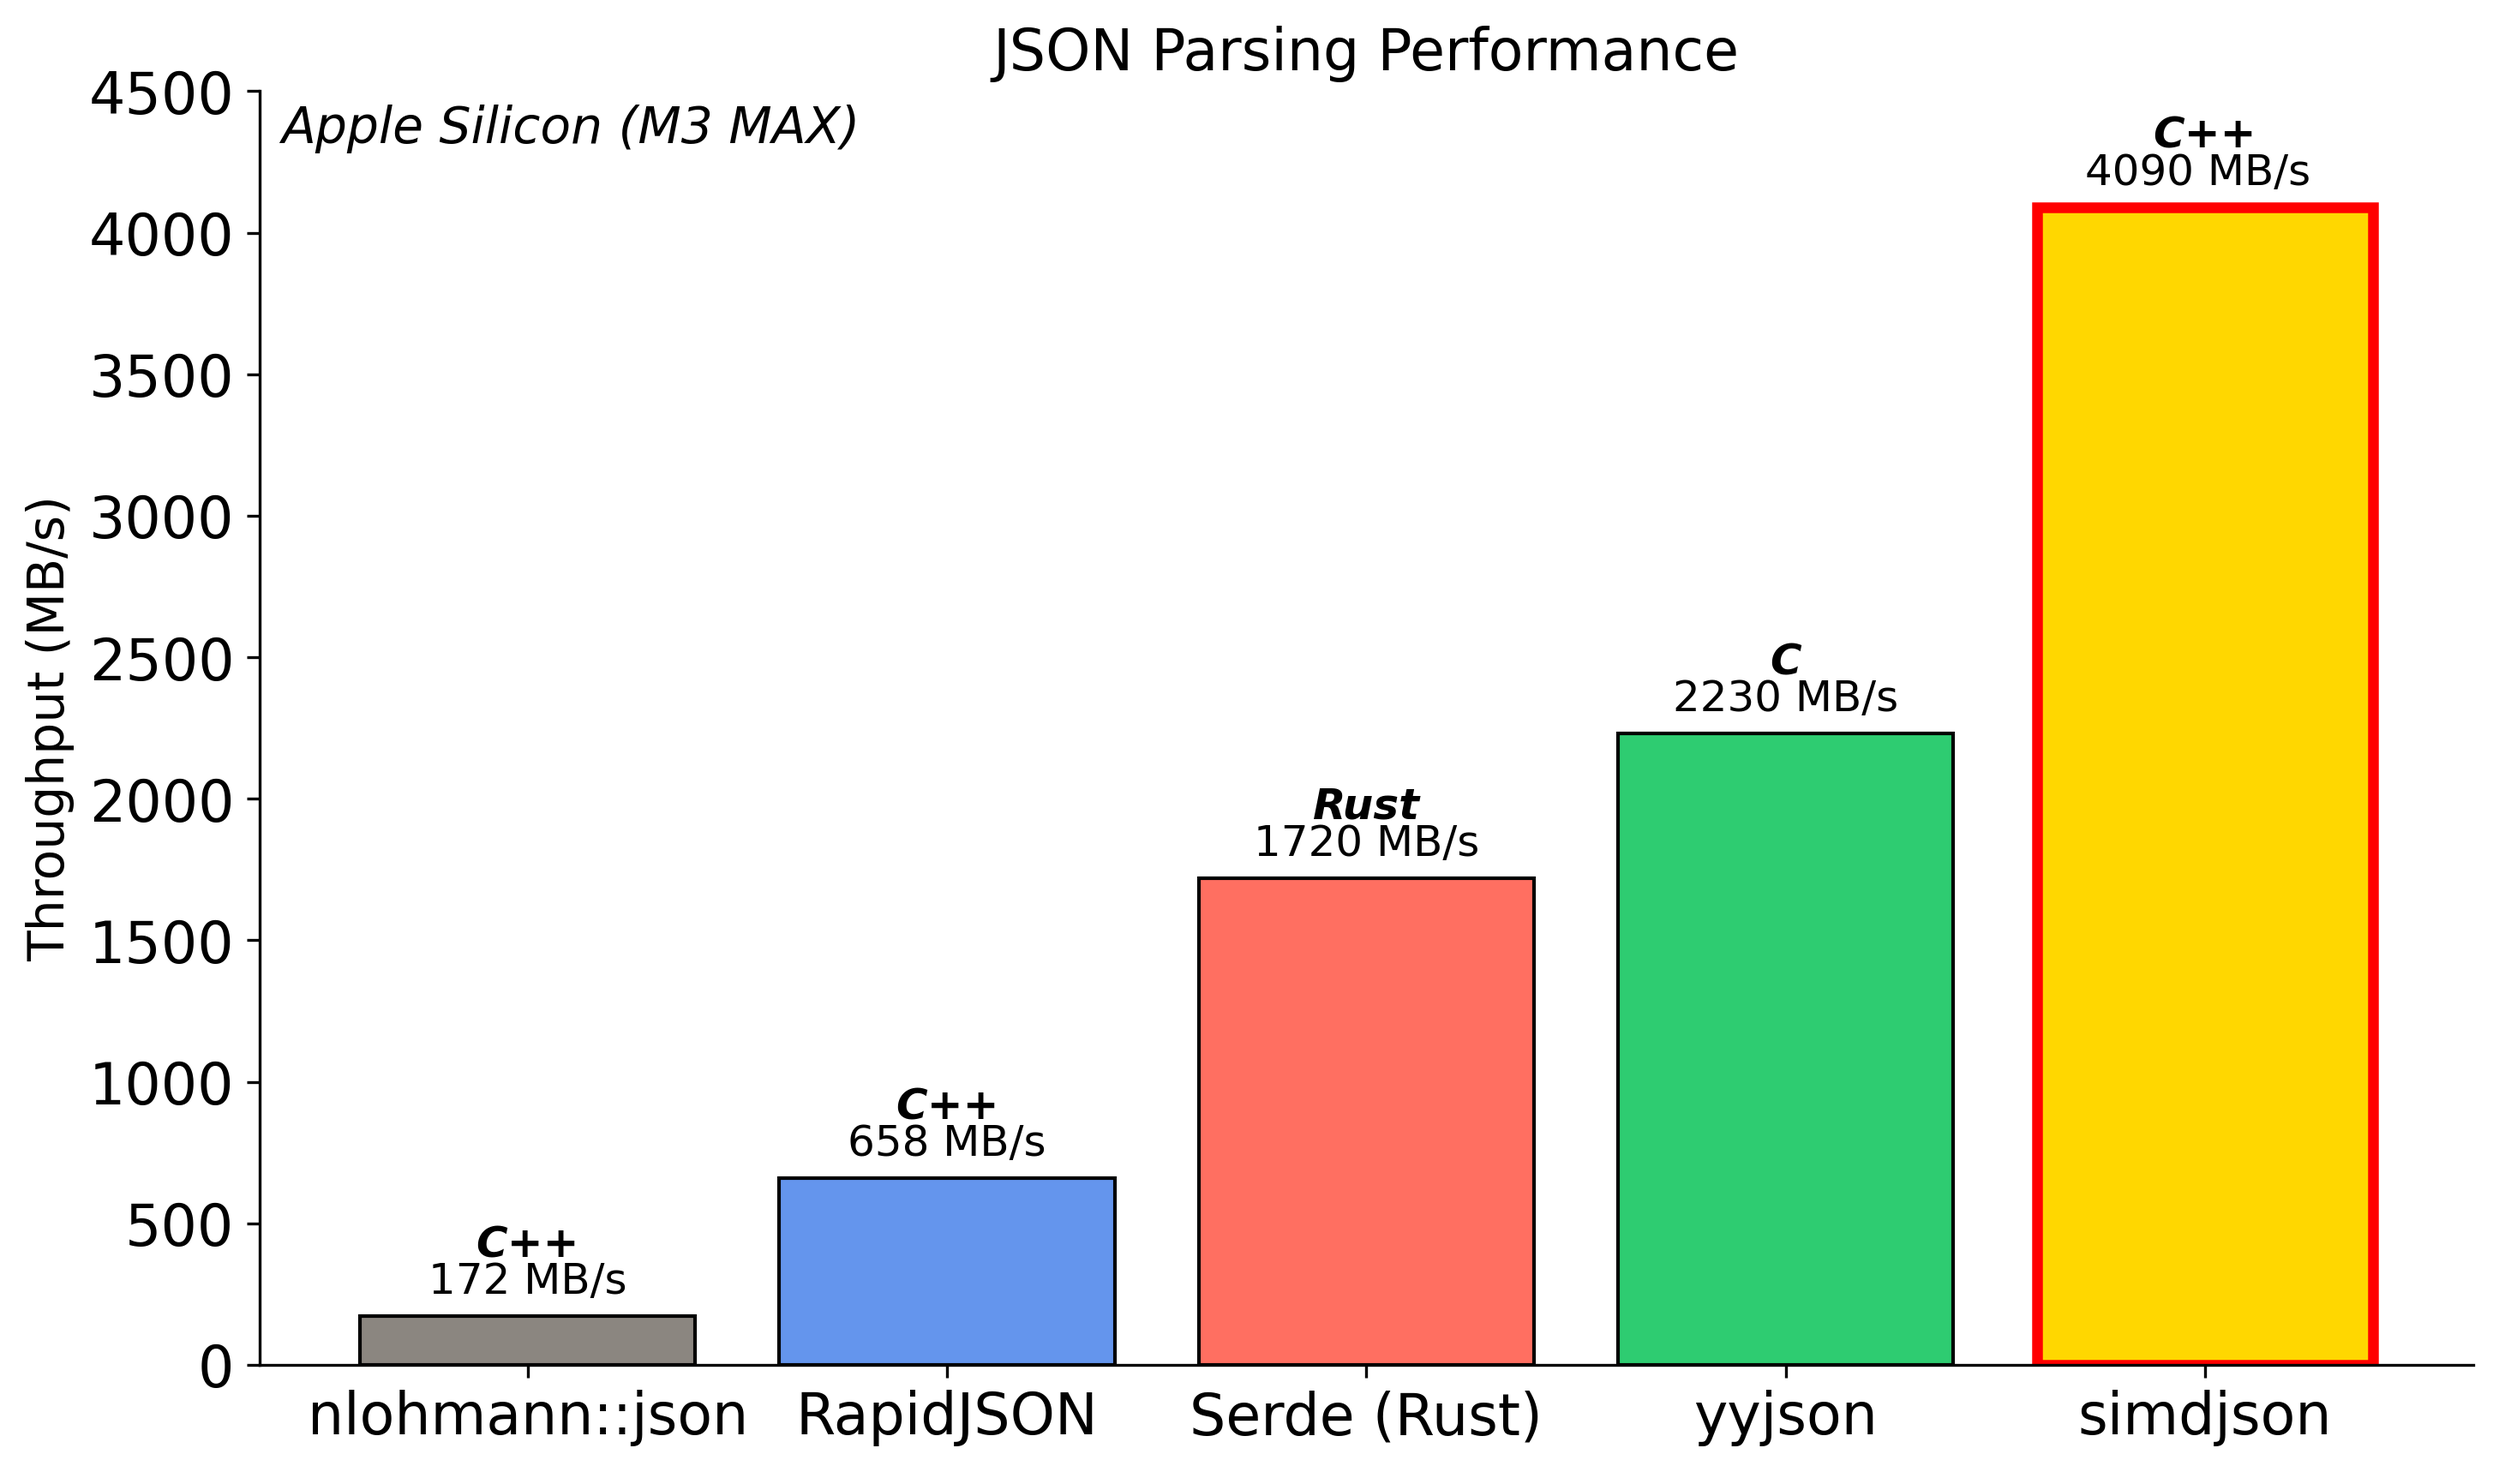
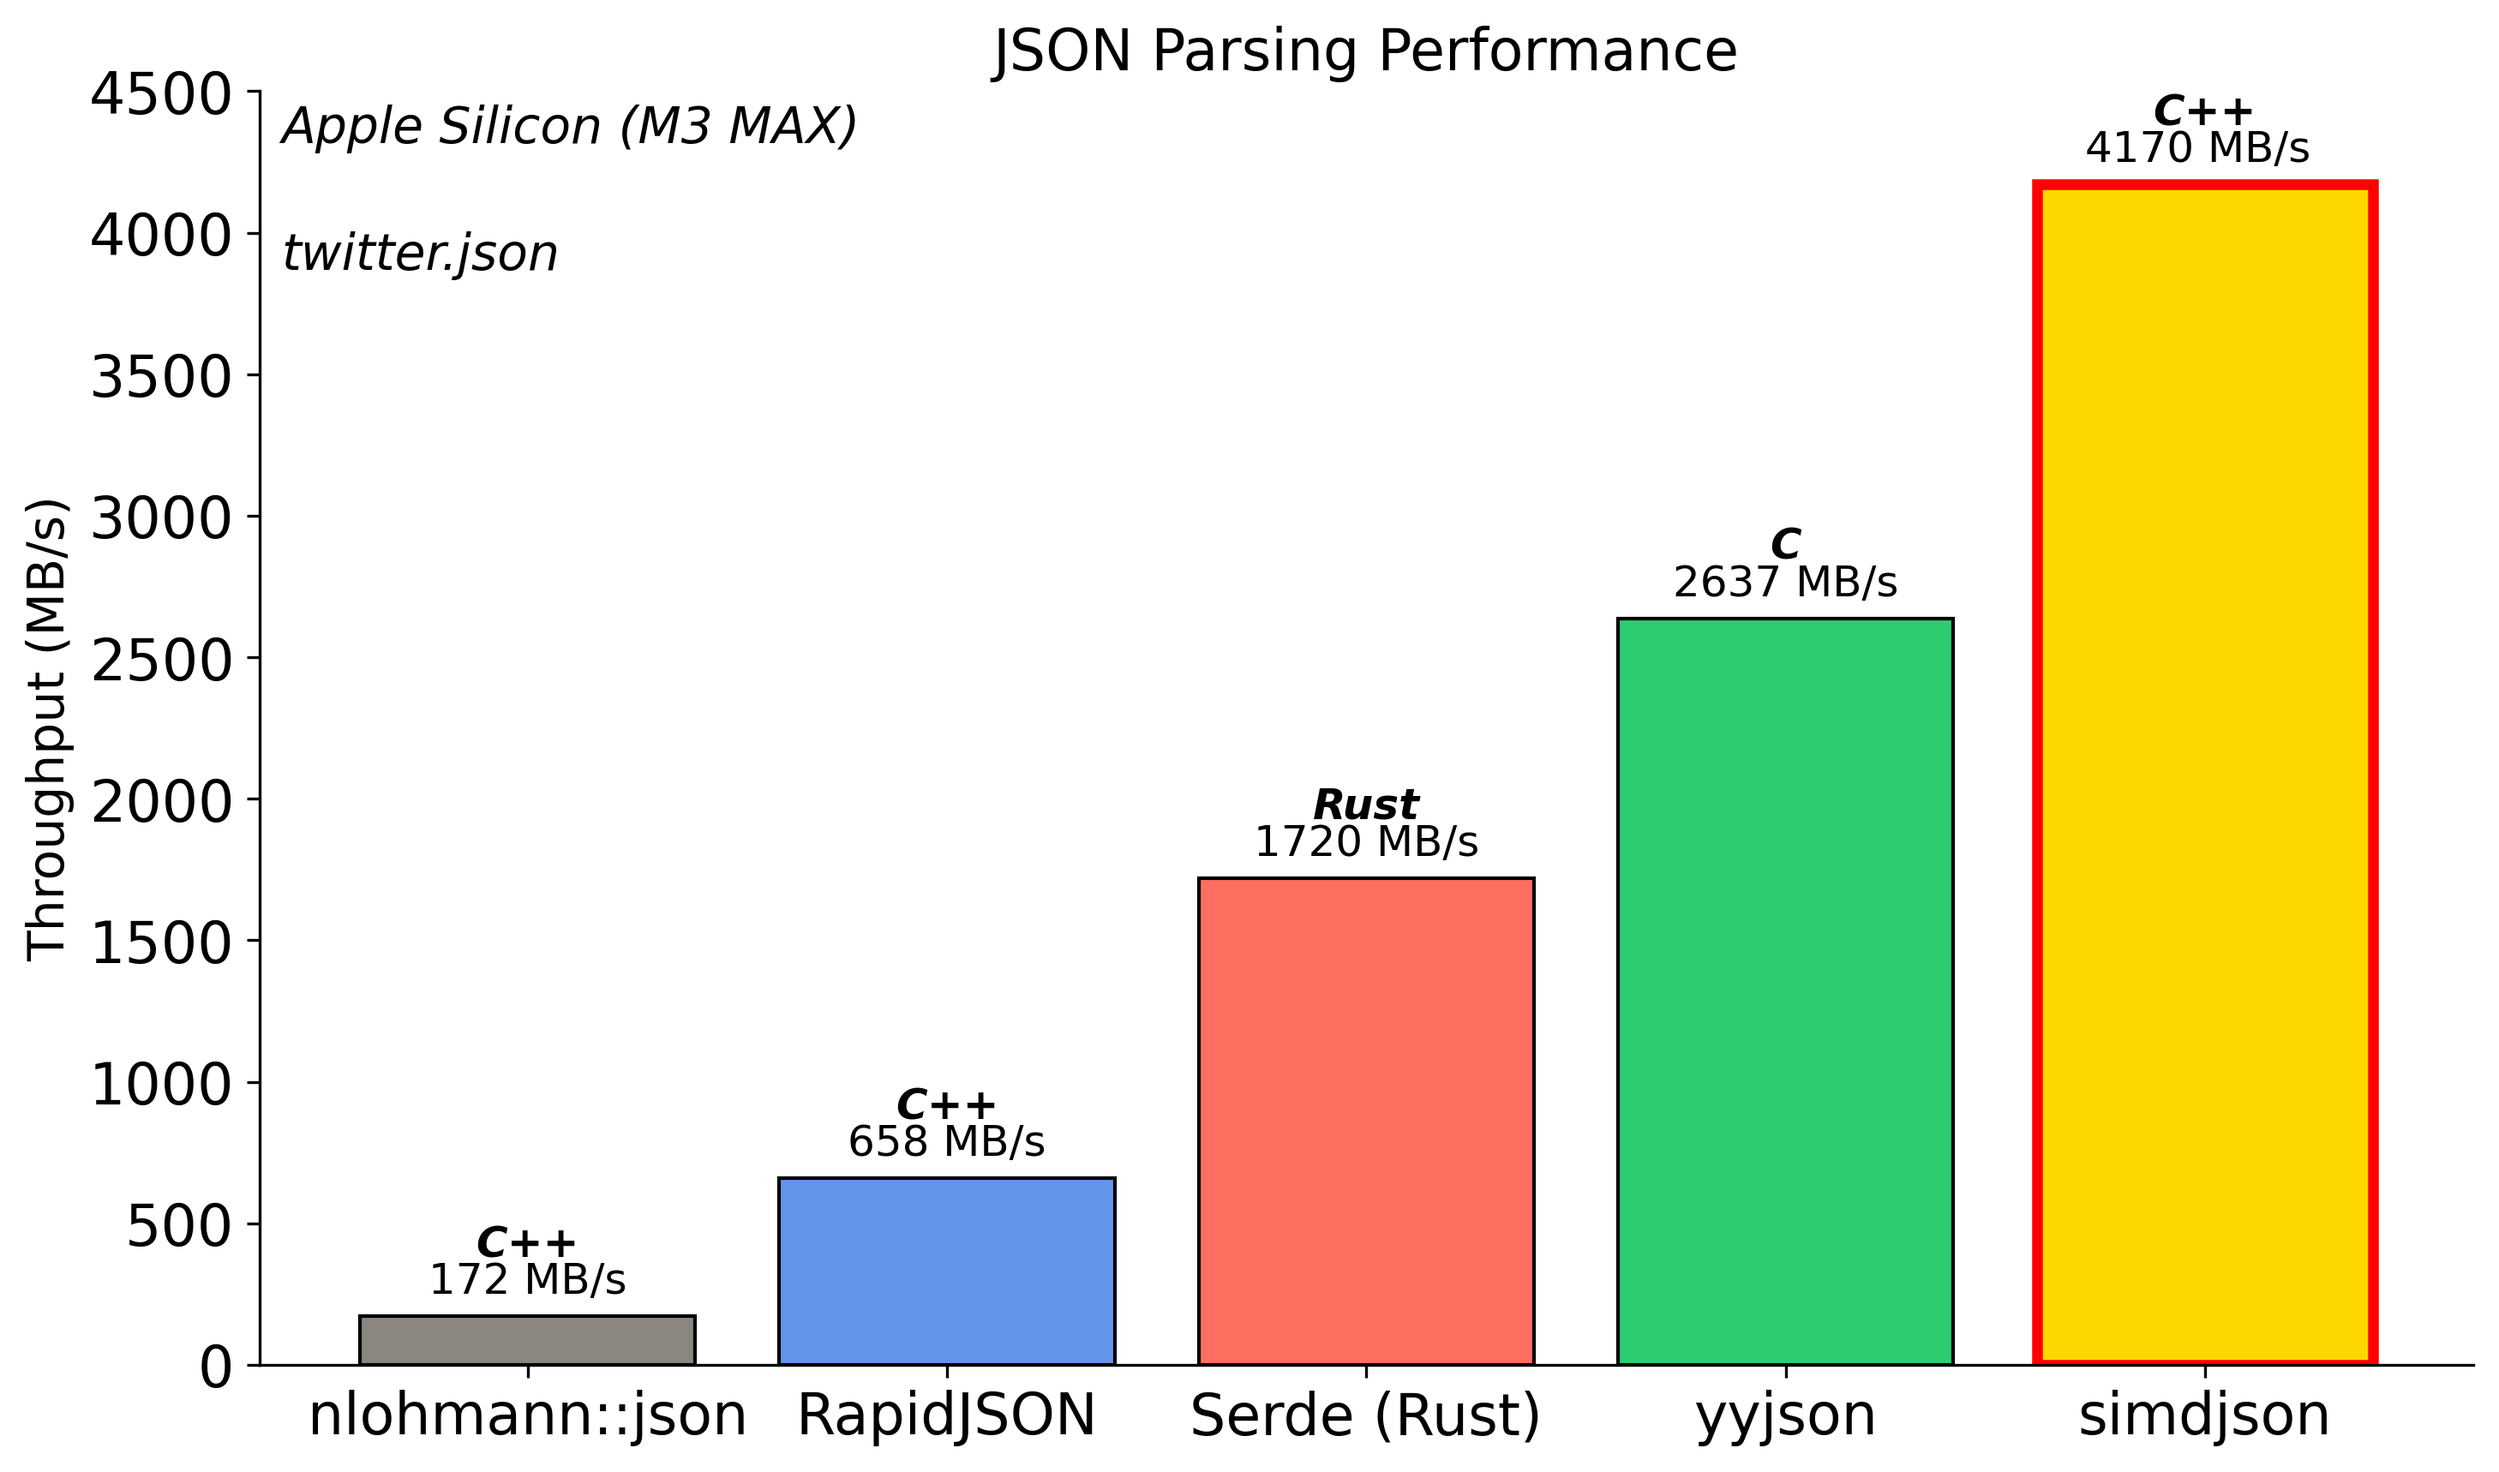
saving.

Changed region(s): [[0.6241, 0.3702, 0.7802, 0.5244], [0.8114, 0.0617, 0.9674, 0.1542], [0.0936, 0.1542, 0.2184, 0.1851]]

diff --git a/cppcon2025/images/generate_perf_charts.py b/cppcon2025/images/generate_perf_charts.py
@@ -3,7 +3,7 @@ plt.rcParams.update({'font.size': 16})
 
 # Chart 1: Current landscape (without simdjson)
 libraries_landscape = ["nlohmann::json", "RapidJSON", "Serde (Rust)", "yyjson"]
-speeds_landscape = [242, 497, 1343, 2074]
+speeds_landscape = [174, 529, 1710, 1909]
 colors_landscape = ['#8B8680', '#6495ED', '#FF6F61', '#2ECC71']
 
 plt.figure(figsize=(10, 6))
@@ -35,7 +35,7 @@ plt.close()
 
 # Chart 2: With simdjson reveal
 libraries_with = ["nlohmann::json", "RapidJSON", "Serde (Rust)", "yyjson", "simdjson"]
-speeds_with = [242, 497, 1343, 2074, 3435]
+speeds_with = [174, 529, 1710, 1909, 3598]
 colors_with = ['#8B8680', '#6495ED', '#FF6F61', '#2ECC71', '#FFD700']
 
 plt.figure(figsize=(10, 6))
@@ -69,10 +69,9 @@ plt.tight_layout()
 plt.savefig('perf_with_simdjson.png', dpi=300, bbox_inches='tight')
 plt.close()
 
-
 # Chart 2b: Parsing only (same style)
 plt.figure(figsize=(10, 6))
-bars = plt.bar(libraries_with, [172, 658, 1720, 2230, 4090], color=colors_with, edgecolor='black')
+bars = plt.bar(libraries_with, [172, 658, 1720, 2637, 4170], color=colors_with, edgecolor='black')
 ax = plt.gca()
 ax.spines['top'].set_visible(False)
 ax.spines['right'].set_visible(False)
@@ -99,40 +98,7 @@ plt.close()
 
 
 
-# Chart 3: Final comparison (sorted)
-libraries_sorted = ["simdjson", "yyjson", "Serde (Rust)", "RapidJSON", "nlohmann::json"]
-speeds_sorted = [3435, 2074, 1343, 497, 242]
-colors_sorted = ['#FFD700', '#2ECC71', '#FF6F61', '#6495ED', '#8B8680']
 
-plt.figure(figsize=(10, 6))
-bars = plt.bar(libraries_sorted, speeds_sorted, color=colors_sorted, edgecolor='black')
 
-ax = plt.gca()
-ax.spines['top'].set_visible(False)
-ax.spines['right'].set_visible(False)
-
-lang_labels = ["C++", "C", "Rust", "C++", "C++"]
-for i, bar in enumerate(bars):
-    yval = bar.get_height()
-    label = f'{yval} MB/s ' if libraries_sorted[i] == 'simdjson' else f'{yval} MB/s'
-    plt.text(bar.get_x() + bar.get_width()/2, yval + 50, label,
-             ha='center', va='bottom', fontsize=12)
-    plt.text(bar.get_x() + bar.get_width()/2, yval + 150, lang_labels[i],
-             ha='center', va='bottom', fontsize=12, color='black', fontweight='bold', style='italic')
-
-# Highlight simdjson
-bars[0].set_linewidth(3)
-bars[0].set_edgecolor('#FF0000')
-
-plt.ylabel('Throughput (MB/s)', fontsize=14)
-plt.ylim(0, 4000)
-plt.title('Twitter Dataset (631KB) - Serialization Performance', fontsize=16)
-plt.text(0.01, 0.99, 'Apple Silicon (M3 MAX)', transform=ax.transAxes,
-         fontsize=14, ha='left', va='top', style='italic', color='black')
-plt.text(0.01, 0.89, 'twitter.json', transform=ax.transAxes,
-         fontsize=14, ha='left', va='top', style='italic', color='black')
-plt.tight_layout()
-plt.savefig('perf_comparison.png', dpi=300, bbox_inches='tight')
-plt.close()
 
 print("Performance charts generated successfully!")

diff --git a/cppcon2025/cppcon_2025_slides.md b/cppcon2025/cppcon_2025_slides.md
@@ -741,6 +741,7 @@ We've observed a 6% slow-down when compiling simdjson with static reflection ena
 
 4) **SIMD**: String operations benefit
 
+5) **Many optimization helps**
 
 ---
 
